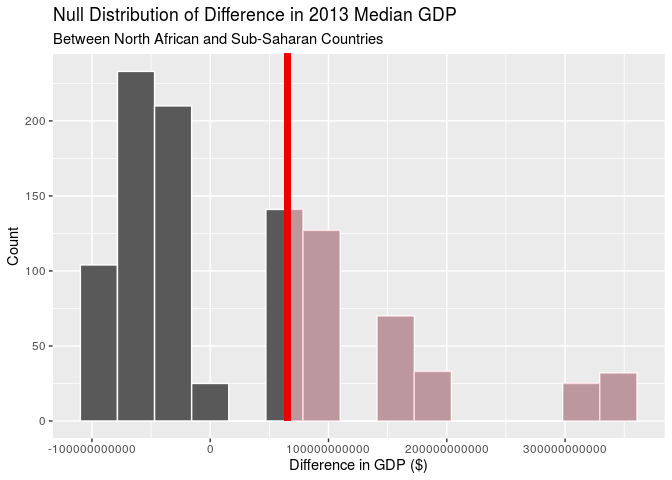
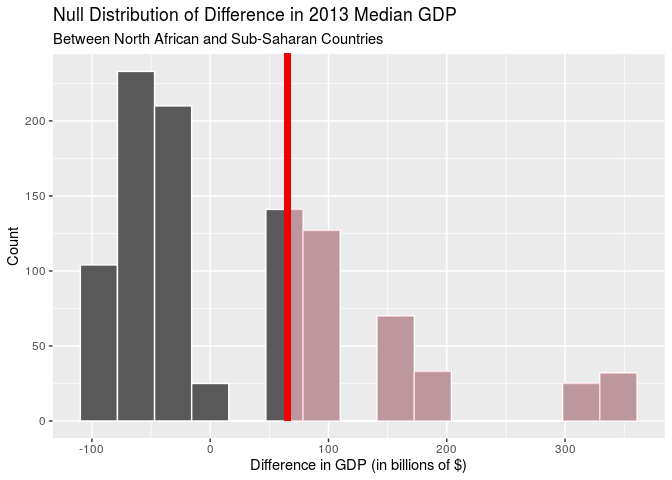
Added kable titles, converted everything to gdp_in_bil

Changed region(s): [[0.375, 0.9062, 0.7188, 1.0], [0.7812, 0.9062, 0.9062, 0.9688], [0.0938, 0.9062, 0.1875, 0.9688]]

diff --git a/writeup/writeup.md b/writeup/writeup.md
@@ -37,9 +37,9 @@ experience its next crisis?
 
 ![](writeup_files/figure-gfm/independence-1.png)<!-- -->
 
-| IQR | median |     mean |
-| --: | -----: | -------: |
-|  11 |     30 | 31.30769 |
+| Interquartile Range | Median |     Mean |
+| ------------------: | -----: | -------: |
+|                  11 |     30 | 31.30769 |
 
 We see that the median amount of years a country will first encounter a
 banking crisis after they achieve independence is about 30 years, with
@@ -76,11 +76,11 @@ Since we’re testing for independence, we’ll use permutation. We’ll
 modify our dataset slightly by factoring success and systemic\_crisis
 into a categorical variable so that it’ll work nicely with infer.
 
-| p\_value |
-| -------: |
-|        0 |
-
 ![](writeup_files/figure-gfm/crisis-prop-diff-1.png)<!-- -->
+
+| p-value |
+| ------: |
+|       0 |
 
 Since our p-value of 0 is less than our significance level of 0.05, we
 reject the null hypothesis. The data provides convincing evidence that
@@ -119,10 +119,10 @@ countries. When calculating GDP by region, we’ll use 2013 GDP data since
 it’s recent and available for 11 of the 13 African countries in our
 dataset.
 
-| region       | med\_gdp\_bil |
-| :----------- | ------------: |
-| North Africa |         106.8 |
-| Sub-Saharan  |          41.6 |
+| Region       | Median GDP (in Billions of $) |
+| :----------- | ----------------------------: |
+| North Africa |                         106.8 |
+| Sub-Saharan  |                          41.6 |
 
 Let’s also visualize the median GDP by region in 2013.
 ![](writeup_files/figure-gfm/visualize-median-GDP-1.png)<!-- -->
@@ -133,10 +133,10 @@ the greatest GDP is a sub-Saharan country, which is an outlier for its
 region. However, the median 2014 GDP for sub-Saharan countries is less
 than North African countries.
 
-The median GDP for North African countries is 106826000000; the median
-GDP for sub-Saharan countries is 41571094245. Therefore, the difference
-in median GDP between North African and sub-Saharan countries is
-65254905755.
+The median GDP for North African countries is 106.826 billion dollars;
+the median GDP for sub-Saharan countries is 41.5710942 billion dollars.
+Therefore, the difference in median GDP between North African and
+sub-Saharan countries is 65.2549058 billion dollars.
 
 The first research question we’ll ask is: is the median GDP of North
 African countries greater than the median GDP of sub-Saharan countries?
@@ -148,12 +148,11 @@ African countries is greater than the median GDP of sub-Saharan African
 countries.
 
 Since we’re testing for independence, we’ll use permute.
-
-| p\_value |
-| -------: |
-|    0.339 |
-
 ![](writeup_files/figure-gfm/gdp-prop-diff-1.png)<!-- -->
+
+| p-value |
+| ------: |
+|   0.339 |
 
 Since our p-value of 0.339 is greater than our significance level of
 0.05, we fail to reject the null hypothesis. The data does not provide
@@ -183,12 +182,11 @@ the proportion of years with systemic crises for sub-Saharan countries
 is greater than for North African countries.
 
 Since we’re testing for independence, we’ll use permute.
-
-| p\_value |
-| -------: |
-|        0 |
-
 ![](writeup_files/figure-gfm/region-prop-diff-1.png)<!-- -->
+
+| p-value |
+| ------: |
+|       0 |
 
 Since our p-value of 0 is less than the significance level of 0.05, we
 reject the null hypothesis. The data provides convincing evidence that
